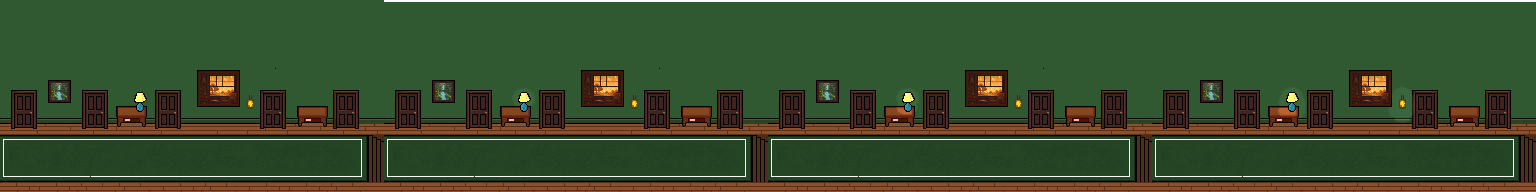
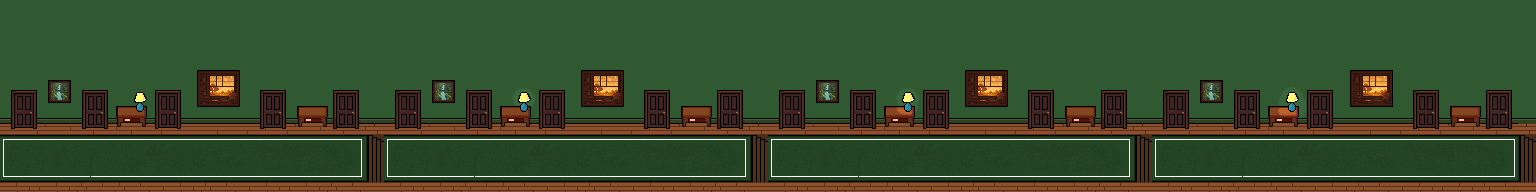
cutscen working latest stable. version

diff --git a/Assets/Scripts/CutsceneManager.cs b/Assets/Scripts/CutsceneManager.cs
@@ -10,6 +10,12 @@ public class CutsceneManager : MonoBehaviour
     [Tooltip("If checked, plays automatically when the GameObject is turned from Inactive to Active")]
     public bool playOnEnable = false;
 
+    [Tooltip("If checked, this cutscene will never play more than once — even if you leave and re-enter the room")]
+    public bool playOnlyOnce = false;
+
+    [Tooltip("A unique ID used to remember if this cutscene has already played. MUST be unique across all scenes! (e.g. 'Scene1_IntroCutscene')")]
+    public string cutsceneID = "";
+
     [Tooltip("Add actions to this list to build your cutscene top-to-bottom!")]
     public List<CutsceneAction> cutsceneActions = new List<CutsceneAction>();
 
@@ -43,11 +49,33 @@ public class CutsceneManager : MonoBehaviour
     /// </summary>
     public void StartCutscene()
     {
+        if (playOnlyOnce)
+        {
+            if (string.IsNullOrEmpty(cutsceneID))
+            {
+                Debug.LogWarning($"[CutsceneManager] '{gameObject.name}' has 'Play Only Once' checked but no Cutscene ID set! The cutscene will always replay. Please set a unique Cutscene ID in the Inspector.");
+            }
+            else if (PlayerPrefs.GetInt(cutsceneID, 0) == 1)
+            {
+                // Already played before — skip it entirely
+                return;
+            }
+        }
+
         if (activeRoutine != null)
         {
             StopCoroutine(activeRoutine);
         }
         activeRoutine = StartCoroutine(PlayCutsceneRoutine());
+    }
+
+    /// <summary>
+    /// Resets this cutscene so it can play again (clears the PlayerPrefs flag).
+    /// </summary>
+    public void ResetCutscene()
+    {
+        if (!string.IsNullOrEmpty(cutsceneID))
+            PlayerPrefs.DeleteKey(cutsceneID);
     }
 
     private IEnumerator PlayCutsceneRoutine()
@@ -242,6 +270,13 @@ public class CutsceneManager : MonoBehaviour
         if (PlayerController.I != null)
         {
             PlayerController.I.UnlockMovement();
+        }
+
+        // 4. If this cutscene should only play once, save that it has been seen
+        if (playOnlyOnce && !string.IsNullOrEmpty(cutsceneID))
+        {
+            PlayerPrefs.SetInt(cutsceneID, 1);
+            PlayerPrefs.Save();
         }
     }
 